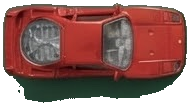
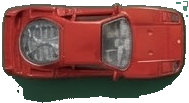
Remove leftover green matte from car PNGs; fix preview crop.

diff --git a/index.html b/index.html
@@ -201,10 +201,11 @@
       border: 1px solid rgba(240, 162, 2, 0.35);
     }
     .sel-preview img {
-      width: min(92%, 280px);
+      width: min(94%, 300px);
       height: auto;
-      max-height: 120px;
+      max-height: none;
       object-fit: contain;
+      object-position: center;
       display: block;
     }
     .sel-preview p {
@@ -435,7 +436,7 @@
     <section class="panel" id="menu">
       <div class="card">
         <h1>Halka Arabaları</h1>
-        <p id="build-tag" style="margin:0 0 10px;font-size:13px;font-weight:800;color:#f0a202;">Sürüm 13 · Tam araba sayfası</p>
+        <p id="build-tag" style="margin:0 0 10px;font-size:13px;font-weight:800;color:#f0a202;">Sürüm 14 · Tam araba sayfası</p>
         <p style="margin:0 0 8px;font-size:14px;">Çek-bırak, halkaya dur, botu yen. Oyunda Menü ile geri dön.</p>
         <p id="menu-best"></p>
         <button id="open-collection" class="garage-entry" type="button">
@@ -501,7 +502,7 @@
     const INSET = 24;
     // Unity car.cs ile aynı kurallar (1 birim ≈ 100 px)
     const HOUSE = { x: 360, y: 280 };
-    const SPAWN = { x: 360, y: 980 };
+    const SPAWN = { x: 360, y: 940 };
     const RINGS = [
       { r: 168, points: 50, color: "#1f73db" },
       { r: 120, points: 100, color: "#b87538" },
@@ -546,7 +547,7 @@
     let CAR_COUNT = PLAYER_COLORS.length;
     function carFileUrl(i) {
       const file = (ATLAS && ATLAS.cars[i] && ATLAS.cars[i].file) ? ATLAS.cars[i].file : ("car_" + String(i).padStart(2, "0") + ".png");
-      return "cars/" + file + "?v=13";
+      return "cars/" + file + "?v=14";
     }
     function punchCrop(img) {
       const w = img.naturalWidth;
@@ -593,12 +594,12 @@
         carSheets[i] = sheet;
         if (i === 0) carSheets[2] = sheet;
       };
-      im.src = src + "?v=13";
+      im.src = src + "?v=14";
     });
     function loadCarImages(meta) {
       carImages = meta.cars.map((c, i) => {
         const im = new Image();
-        im.src = "cars/" + (c.file || ("car_" + String(i).padStart(2, "0") + ".png")) + "?v=13";
+        im.src = "cars/" + (c.file || ("car_" + String(i).padStart(2, "0") + ".png")) + "?v=14";
         return im;
       });
     }
@@ -615,13 +616,13 @@
       refreshMenuBest();
       if (state === "collection") renderCollection();
     }
-    fetch("cars/atlas.json?v=13")
+    fetch("cars/atlas.json?v=14")
       .then((r) => r.json())
       .then((meta) => new Promise((resolve, reject) => {
         const img = new Image();
         img.onload = () => resolve({ meta, img });
         img.onerror = reject;
-        img.src = "cars/atlas.png?v=13";
+        img.src = "cars/atlas.png?v=14";
       }))
       .then(({ meta, img }) => applyAtlas(meta, img))
       .catch(() => { /* atlas yoksa renk yedekleri kalır */ });
